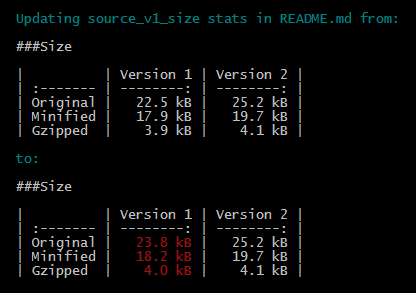
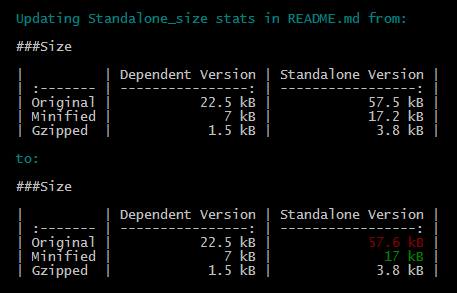
Edit file injection usage example

diff --git a/README.md b/README.md
@@ -240,13 +240,13 @@ grunt.initConfig({
           text: 
             '###Size' + 
             grunt.util.linefeed + grunt.util.linefeed + 
-            '|          | Version 1 | Version 2 |' + grunt.util.linefeed + 
-            '| :------- | --------: | --------: |' + grunt.util.linefeed +
-            '| Original | {{= _.lpad(sizeText(size(src[0])), 9) }} | {{= _.lpad(pass(), 9) }} |' + 
+            '|          | Dependent Version | Standalone Version |' + grunt.util.linefeed + 
+            '| :------- | ----------------: | -----------------: |' + grunt.util.linefeed + 
+            '| Original | {{= _.lpad(pass(), 17) }} | {{= sizeText(size(src[0]), 18) }} |' + 
             grunt.util.linefeed + 
-            '| Minified | {{= _.lpad(sizeText(size(src[1])), 9) }} | {{= _.lpad(pass(), 9) }} |' + 
+            '| Minified | {{= _.lpad(pass(), 17) }} | {{= sizeText(size(src[1]), 18) }} |' + 
             grunt.util.linefeed + 
-            '| Gzipped  | {{= _.lpad(sizeText(gzipSize(src[1])), 9) }} | {{= _.lpad(pass(), 9) }} |'
+            '| Gzipped  | {{= _.lpad(pass(), 17) }} | {{= sizeText(gzipSize(src[1]), 18) }} |'
         }
       }
     }
@@ -258,11 +258,11 @@ Injected text:
 ```
 ###Size
 
-|          | Version 1 | Version 2 |
-| :------- | --------: | --------: |
-| Original |   22.5 kB |   25.2 kB |
-| Minified |   17.9 kB |   19.7 kB |
-| Gzipped  |    3.9 kB |    4.1 kB |
+|          | Dependent Version | Standalone Version |
+| :------- | ----------------: | -----------------: |
+| Original |           22.5 kB |            57.5 kB |
+| Minified |              7 kB |            17.2 kB |
+| Gzipped  |            1.5 kB |             3.8 kB |
 ```
 
 File injection occurs only if a portion of the destination file matches `options.inject.text` and one or more corresponding field values _change_, in which case a diff report is normally output to the command line for the matching portion of text. For example:
